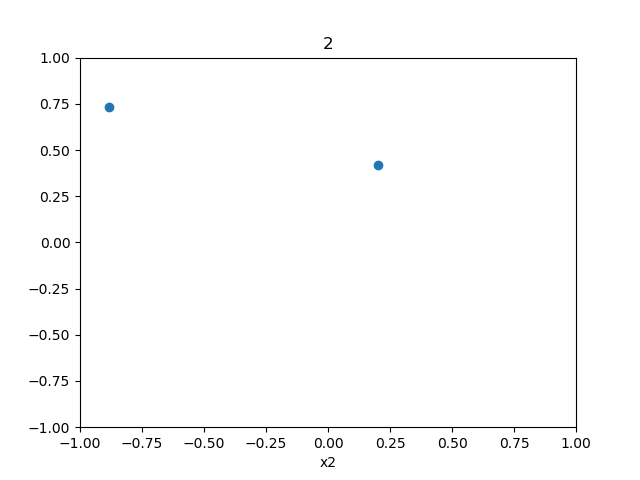
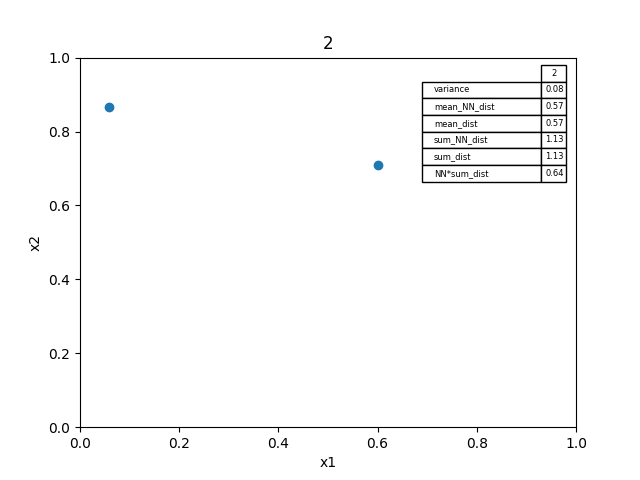
Switch from Mac back to Cerus machine. Diversity metric updated

diff --git a/Diversity_Measure/diversity_test.py b/Diversity_Measure/diversity_test.py
@@ -3,7 +3,8 @@ import matplotlib
 matplotlib.use('Agg')
 import matplotlib.pyplot as plt
 from sklearn.neighbors import NearestNeighbors
-
+import pandas as pd
+from pandas.plotting import table
 def generate_point_set(n_list, random_seed = 42):
     """
     Generate len(n) random 2D points and return the list of points (2D arrays)
@@ -13,33 +14,40 @@ def generate_point_set(n_list, random_seed = 42):
     points_list = []
     np.random.seed(random_seed)
     for n in n_list:
-        points_list.append(np.random.rand(n,2) * 2 - 1)
+        points_list.append(np.random.rand(n,2))
     return points_list
 
 
 
 
-def plot_point_sets(points_list, Div_mat, divers):#, diversity_measure_list, diversity_measure_name_list):
+def plot_point_sets(points_list, Div_mat, diversity_names):#, diversity_measure_list, diversity_measure_name_list):
     """
     Plot the points in the points list with the diversity measurement
     :param points_list: the list of points
     :param diversity_measure_name_list: The list of diversity measures
     :param diversity_measure_list: The list of names of diversity measures to show at legend
     """
-
+    df = pd.DataFrame(Div_mat)#, columns = diversity_names)
+    df.columns = diversity_names
     for cnt, points in enumerate(points_list):
+        #df = pd.DataFrame(np.transpose(Div_mat[cnt,:]))#, columns = diversity_names)
+        #df.info()
+        #df = df.T
+        #df.columns = diversity_names
         f = plt.figure()
+        ax = plt.gca()
+        table(ax, np.round(df.iloc[cnt,:],2), loc = 'upper right', colWidths=[0.05])
         plt.scatter(points[:,0],points[:,1])
         plt.xlabel('x1')
         plt.ylabel('x2')
         plt.title(str(cnt))
-        plt.xlim(-1,1)
-        plt.ylim(-1,1)
+        plt.xlim(0,1)
+        plt.ylim(0,1)
         f.savefig('{}.png'.format(cnt))
 
-def diversity_list(points_list, diversity_measures):
+def get_div_mat(points_list, diversity_measures):
     #Creat the 2D matrix for diversity measure
-    Div_mat = np.zeros(len(points_list), len(diversity_measures))
+    Div_mat = np.zeros([len(points_list), len(diversity_measures)])
 
     for i, points in enumerate(points_list):
         for j,div_measure in enumerate(diversity_measures):
@@ -54,6 +62,8 @@ def variance(points):
         return np.sum(np.var(points, axis = 0))
 
 def mean_NN_dist(points):
+    if (len(points) < 2):
+        return 0
     nbrs = NearestNeighbors(n_neighbors = 2).fit(points)
     distance, indices = nbrs.kneighbors(points)
     return np.sum(distance) / len(points) 
@@ -62,6 +72,8 @@ def sum_NN_dist(points):
     return mean_NN_dist(points) *  len(points)
 
 def mean_dist(points):
+    if (len(points) < 2):
+        return 0
     nbrs = NearestNeighbors(n_neighbors = len(points)).fit(points)
     distance, indices = nbrs.kneighbors(points)
     return np.sum(distance) / (len(points) - 1) / len(points)
@@ -69,12 +81,26 @@ def mean_dist(points):
 def sum_dist(points):
     return mean_dist(points) * len(points)
 
+def NNmulSum_dist(points):
+    if (len(points) < 2):
+        return 0
+    metric = 0
+    nbrs = NearestNeighbors(n_neighbors = len(points)).fit(points)
+    distance, indices = nbrs.kneighbors(points)
+    for i in range(len(distance)):
+        point_contribution = np.sum(distance[i,:]) * distance[i,1] #The total distance times the nearest neighbor
+        metric += point_contribution
+    return metric
+
+def 
+
 if __name__ == '__main__':
     points = generate_point_set([1,2,2,3,3,4,4,5,6])
     #plot_point_sets(points)
-    diversity_measures = [variance, mean_NN_dist, mean_dist, sum_NN_dist, sum_dist]
-    diversity_names = ['variance', 'mean_NN_dist', 'mean_dist', 'sum_NN_dist', 'sum_dist']
-   
+    diversity_measures = [variance, mean_NN_dist, mean_dist, sum_NN_dist, sum_dist, NNmulSum_dist]
+    diversity_names = ['variance', 'mean_NN_dist', 'mean_dist', 'sum_NN_dist', 'sum_dist','NN*sum_dist']
+    div_mat = get_div_mat(points, diversity_measures)
+    plot_point_sets(points, div_mat, diversity_names)
     
     
     

diff --git a/README.md b/README.md
@@ -207,11 +207,15 @@ Bug Fixed/ Function added/Work Done:
 4. Bug fix of reading parameter from current flag while doing evaluation, auto grab from metafile now
 5.
 
+## 2019.08.28
+Function added/ Work Done:
+1. Diversity metric formulation
+2. Diversity metric heat map demonstration
+
 Things to do:
 1. Modify Tandem predictioin geo2spec module to fit the need of VAE inference (Take the best result)
 2. Wait the Tandem model same param running and plot all the space
 3. VAE solution space
-4. Diversity metric formulation
 
 Working on now:
 1. Plot the 
